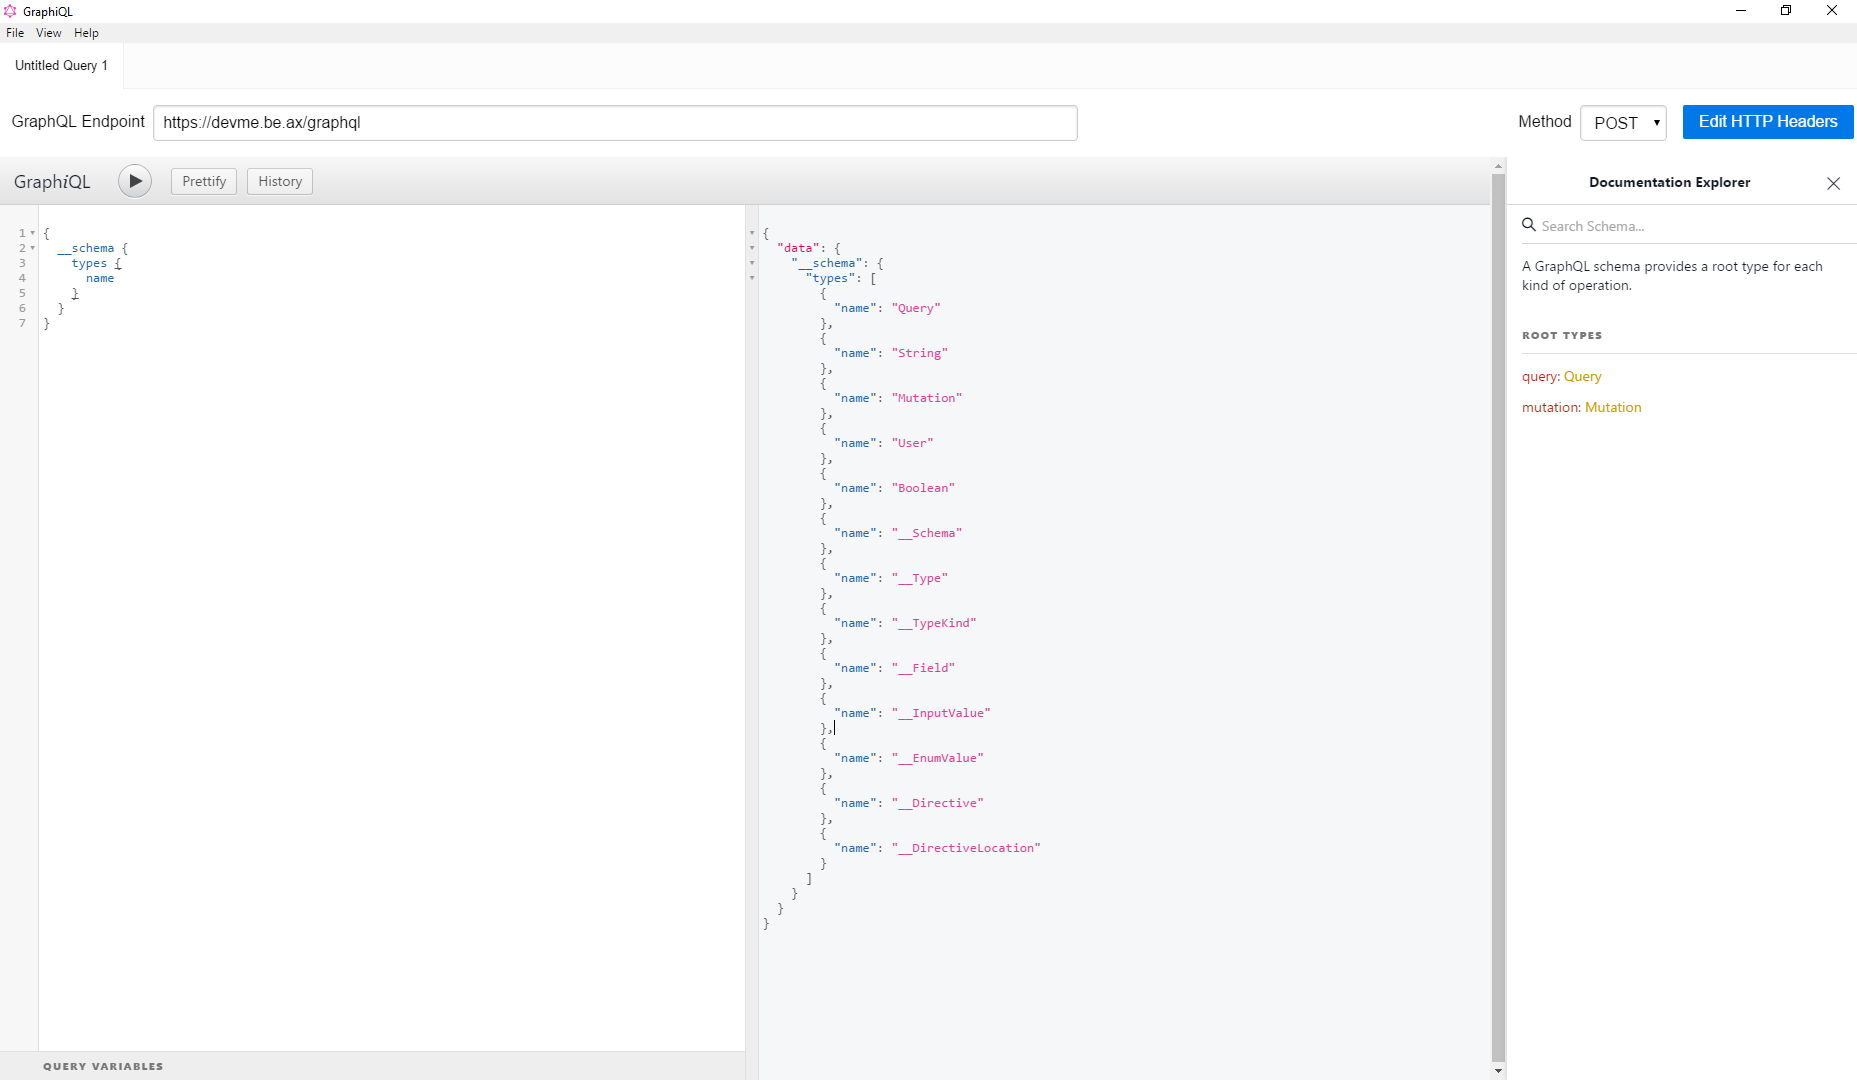
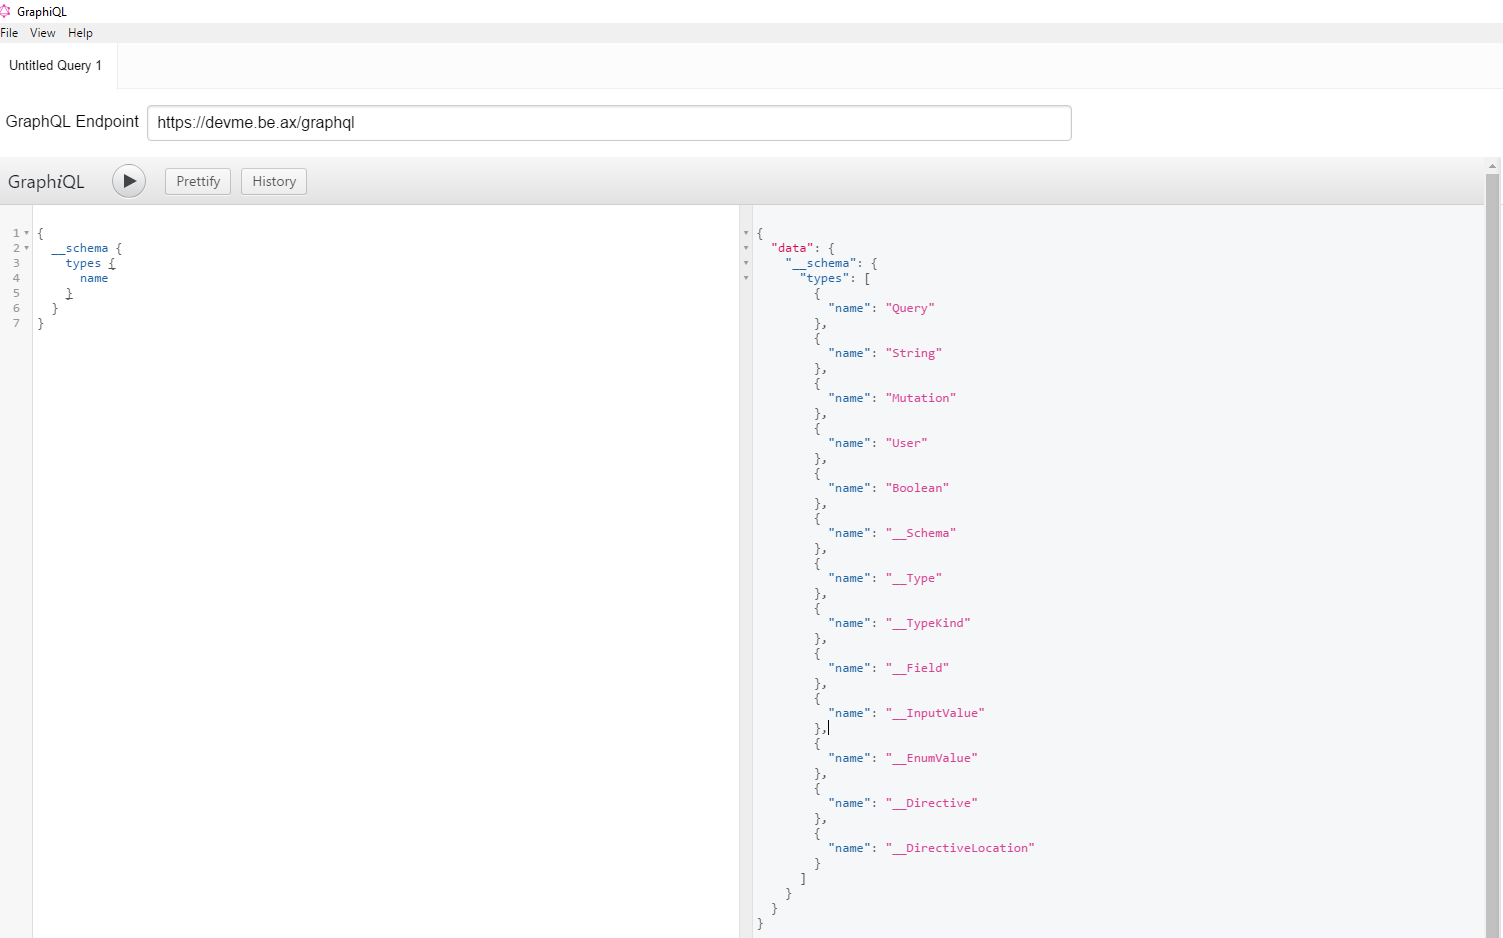
Resize screenshots

diff --git a/corCTF-2021/web-devme/README.md b/corCTF-2021/web-devme/README.md
@@ -1,6 +1,6 @@
 # web-devme Writeup
 
-![Intro](/screenshots/siteintro.PNG)
+![Intro](/corCTF-2021/web-devme/screenshots/siteintro.PNG)
 
 ![User Input](/screenshots/userinput.PNG)
 
